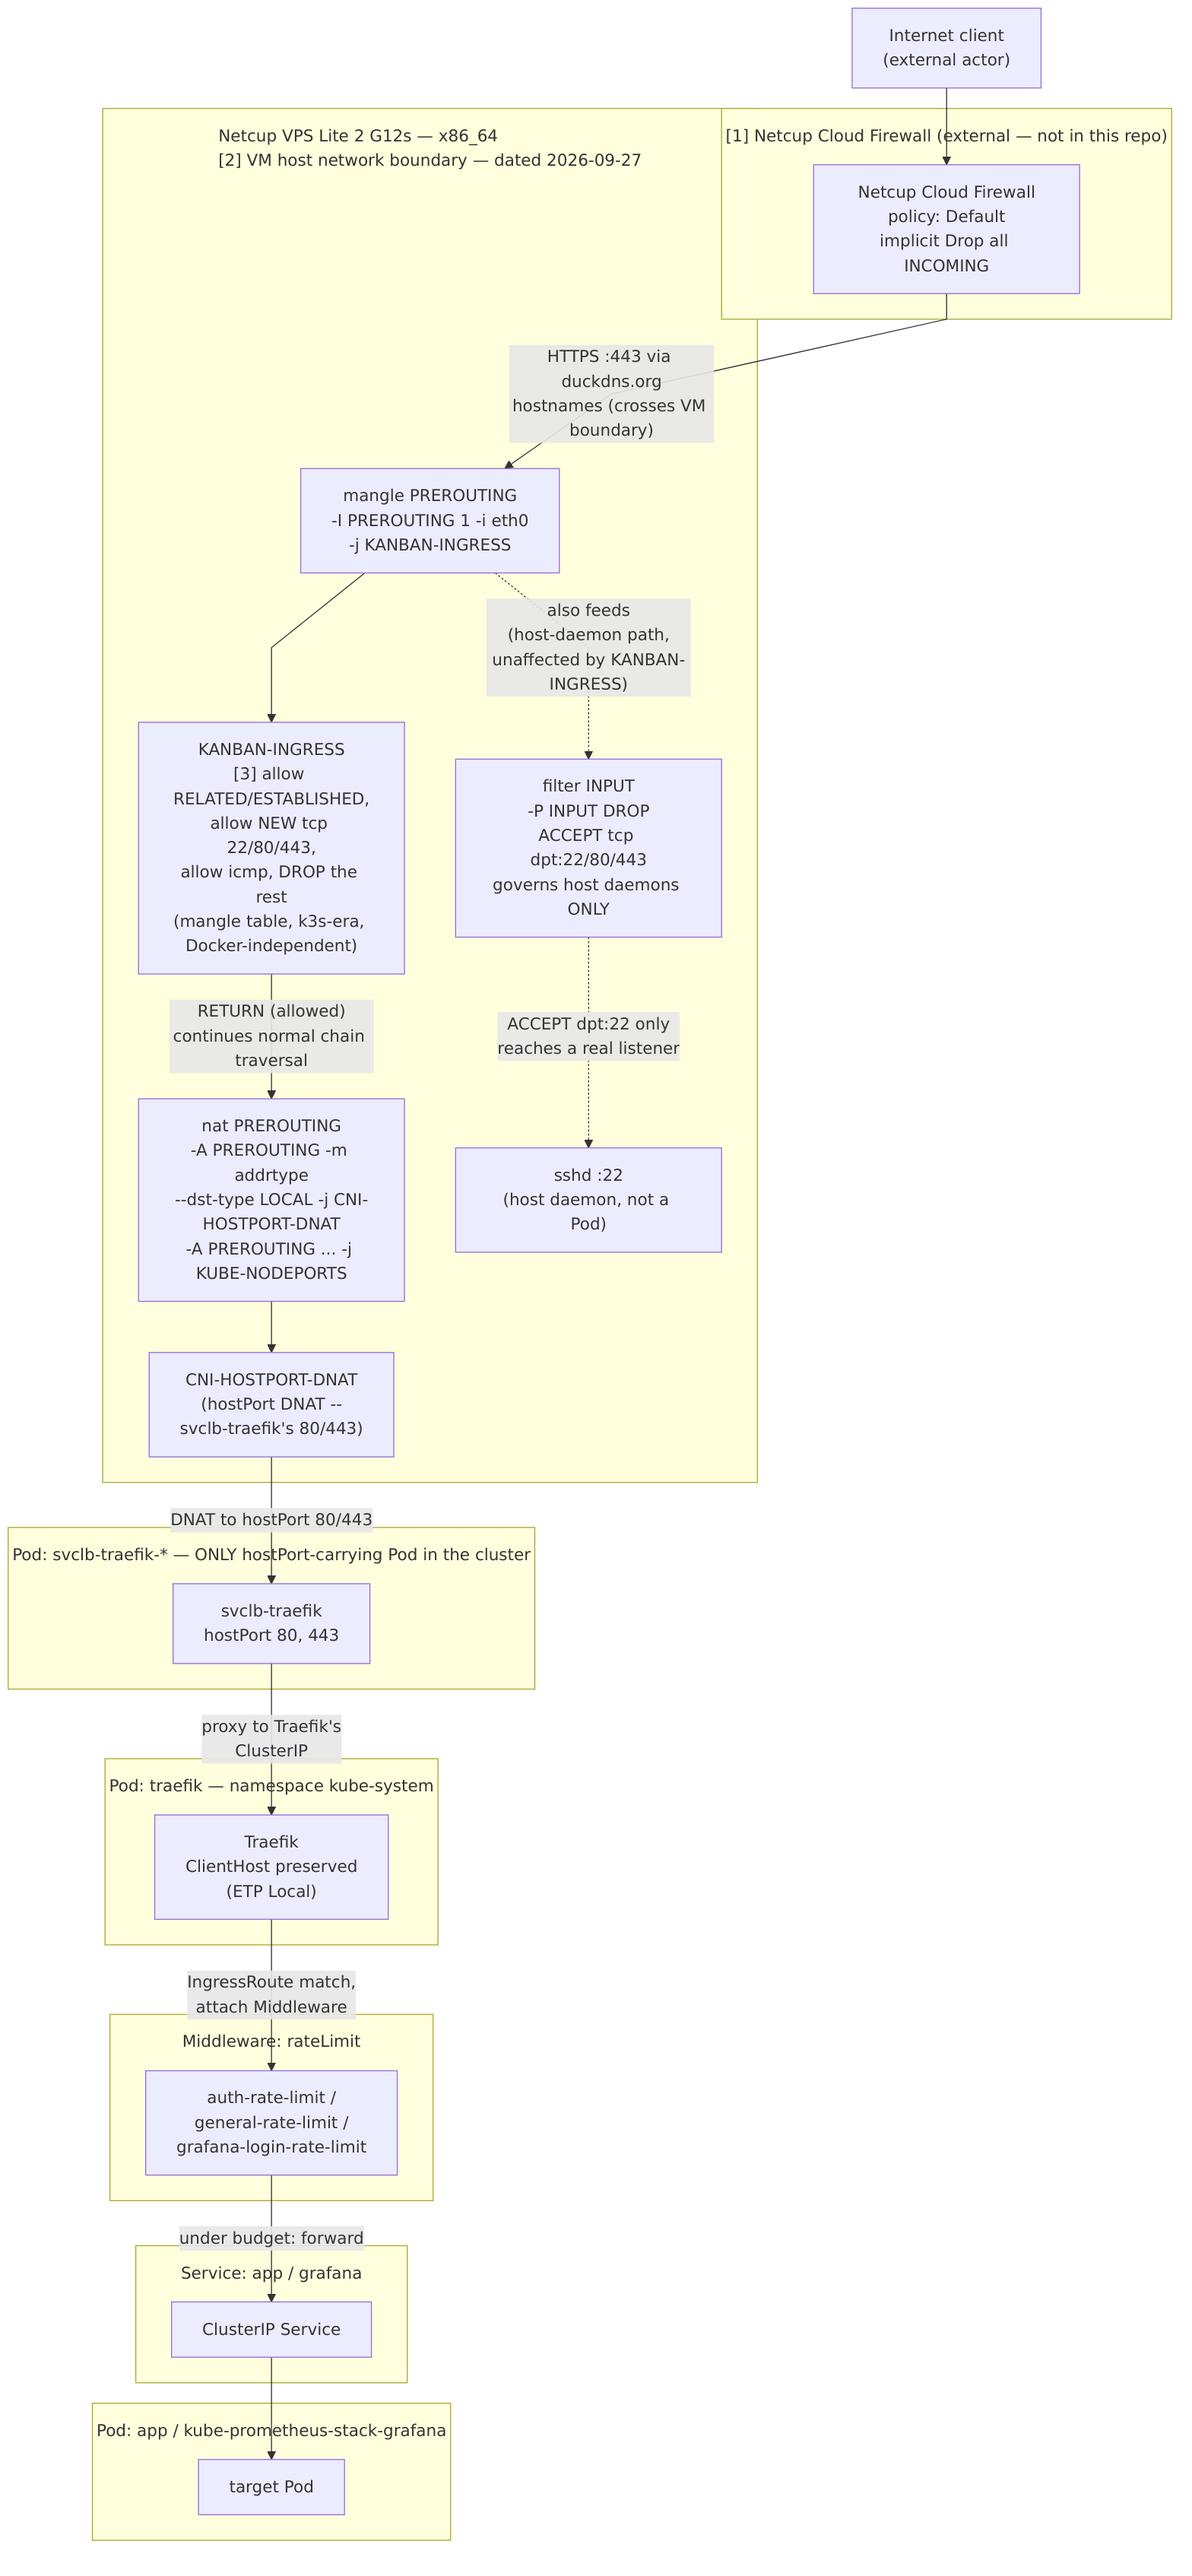
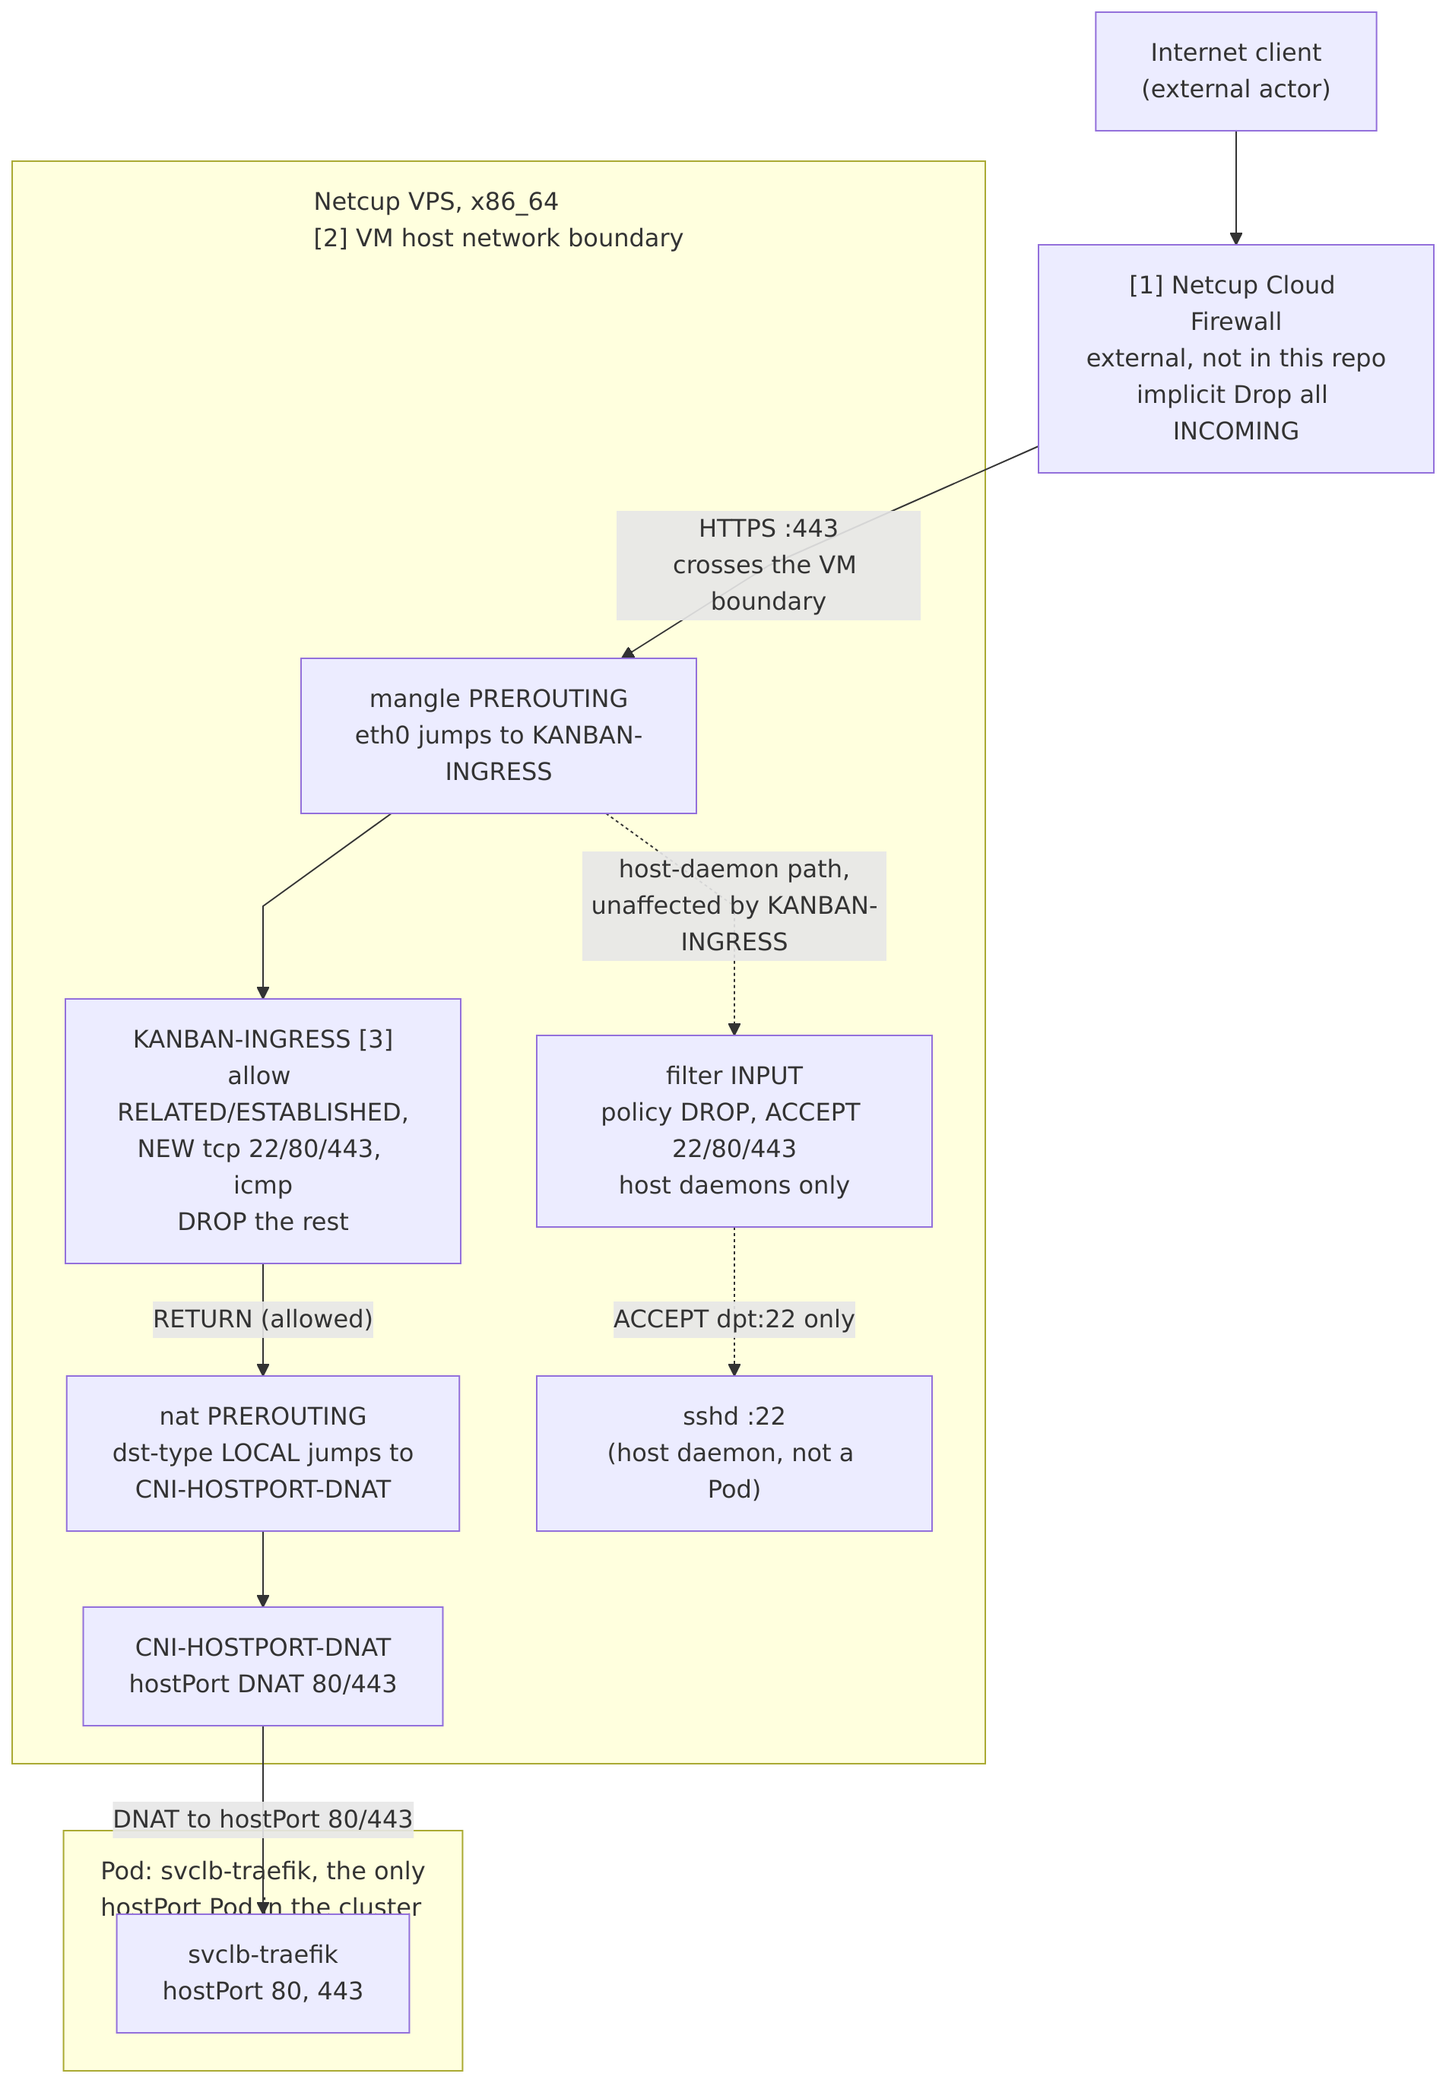
docs(quick-261005-sun): split infra diagrams under the legibility limits and embed them

diff --git a/README.md b/README.md
@@ -268,7 +268,7 @@ Full delivery-path detail, including the exact mechanism for the image-tag bump 
 independent per-environment reconciliation (D-16), is in
 [docs/INFRA_ARCHITECTURE.md](docs/INFRA_ARCHITECTURE.md); the same path is drawn as a sequence
 diagram at
-[docs/diagrams/scenarios/push-to-deploy.mmd](docs/diagrams/scenarios/push-to-deploy.mmd).
+[docs/diagrams/scenarios/push-to-image.mmd](docs/diagrams/scenarios/push-to-image.mmd).
 
 ## Quality & security gates
 
@@ -310,12 +310,16 @@ or [docs/INFRA_ARCHITECTURE.md](docs/INFRA_ARCHITECTURE.md):
 | View     | Diagram                                                                         | Answers                                                                                             |
 | -------- | ------------------------------------------------------------------------------- | --------------------------------------------------------------------------------------------------- |
 | Physical | [`physical/production-host`](docs/diagrams/physical/production-host.mmd)        | What runs where, on what hardware (embedded above)                                                  |
+| Physical | [`physical/delivery-nodes`](docs/diagrams/physical/delivery-nodes.mmd) | Which nodes the delivery path touches |
+| Physical | [`physical/monitoring-nodes`](docs/diagrams/physical/monitoring-nodes.mmd) | What the monitoring namespace scrapes and queries |
 | Process  | [`process/activity-pipeline`](docs/diagrams/process/activity-pipeline.mmd)      | The path of a mutation through the activity-log pipeline, thread by thread                          |
 | Scenario | [`scenarios/signin`](docs/diagrams/scenarios/signin.mmd)                        | What happens between a `POST` of credentials and a session cookie landing in Postgres               |
 | Scenario | [`scenarios/signup`](docs/diagrams/scenarios/signup.mmd)                        | Signup, its auto-authentication and the rollback when that authentication fails                     |
 | Scenario | [`scenarios/error-status-split`](docs/diagrams/scenarios/error-status-split.mmd) | Which layer rejects a request for each of 401/403/400/409, and whether it ever reaches a controller |
-| Scenario | [`scenarios/push-to-deploy`](docs/diagrams/scenarios/push-to-deploy.mmd)        | How a push to `main` becomes a running deploy, job by job                                           |
+| Scenario | [`scenarios/push-to-image`](docs/diagrams/scenarios/push-to-image.mmd)        | How a push to `main` becomes a running deploy, job by job                                           |
 | Scenario | [`scenarios/inbound-packet-path`](docs/diagrams/scenarios/inbound-packet-path.mmd) | The path of one inbound packet through the VM's network layers                                   |
+| Scenario | [`scenarios/ingress-to-pod`](docs/diagrams/scenarios/ingress-to-pod.mmd) | From the hostPort pod through Traefik and rate limiting to the target pod |
+| Scenario | [`scenarios/image-to-rollout`](docs/diagrams/scenarios/image-to-rollout.mmd) | How an image tag bump becomes a rolled-out pod, Flux side |
 
 ## Project status
 

diff --git a/docs/INFRA_ARCHITECTURE.md b/docs/INFRA_ARCHITECTURE.md
@@ -38,8 +38,15 @@ architecture — the discipline this project adopted specifically because a plai
 what" diagram would not have surfaced the CI pipeline building an x86_64-only image for an ARM64
 deploy target (see `DIAGRAM_CONVENTIONS.md`'s own note on this).
 
-![Flowchart: physical/deployment view of the production topology](diagrams/physical/production-host.png)
+<img src="diagrams/physical/production-host.png" width="1098" alt="Flowchart: physical view of the production host, edge to data">
+
+<img src="diagrams/physical/monitoring-nodes.png" width="635" alt="Flowchart: monitoring nodes and what they scrape">
+<sub>[diagram source](diagrams/physical/monitoring-nodes.mmd)</sub>
+
 <sub>[diagram source](diagrams/physical/production-host.mmd)</sub>
+
+<img src="diagrams/physical/delivery-nodes.png" width="808" alt="Flowchart: nodes of the delivery path">
+<sub>[diagram source](diagrams/physical/delivery-nodes.mmd)</sub>
 
 **Externally reachable vs. internal-only:** `svclb-traefik-*` is the ONLY Pod in the cluster
 carrying a `hostPort` (80, 443) — confirmed live via `k3s kubectl get pods -A -o json` filtered for
@@ -127,8 +134,11 @@ pull-based GitOps (D-14)** — this workflow ends at image push. There is no `de
 image-automation controllers and `kustomize-controller` own the rest of the path, entirely inside
 the cluster.
 
-![Sequence diagram: delivery path from push to main to a running deploy](diagrams/scenarios/push-to-deploy.png)
-<sub>[diagram source](diagrams/scenarios/push-to-deploy.mmd)</sub>
+<img src="diagrams/scenarios/push-to-image.png" width="932" alt="Sequence diagram: CI half of the delivery path, from push to main to image push and migration check">
+<sub>[diagram source](diagrams/scenarios/push-to-image.mmd)</sub>
+
+<img src="diagrams/scenarios/image-to-rollout.png" width="1074" alt="Sequence diagram: image tag bump to a rolled-out pod">
+<sub>[diagram source](diagrams/scenarios/image-to-rollout.mmd)</sub>
 
 **Externally reachable vs. internal-only (delivery path):** the GitHub Actions runner reaches
 Docker Hub over the public internet to push images, and nothing else in the delivery path touches
@@ -189,7 +199,11 @@ Compose-era `DOCKER-USER` chain this section used to describe governs nothing on
 all (k3s's NodePort/hostPort DNAT never traverses it); `KANBAN-INGRESS` (Plan 13-08) is its
 Docker-independent replacement.
 
-![Flowchart: inbound packet path through the VM's network layers](diagrams/scenarios/inbound-packet-path.png)
+<img src="diagrams/scenarios/inbound-packet-path.png" width="951" alt="Flowchart: inbound packet path through the VM's netfilter chains">
+
+<img src="diagrams/scenarios/ingress-to-pod.png" width="344" alt="Flowchart: from the hostPort pod through Traefik to the target pod">
+<sub>[diagram source](diagrams/scenarios/ingress-to-pod.mmd)</sub>
+
 <sub>[diagram source](diagrams/scenarios/inbound-packet-path.mmd)</sub>
 
 **Reproduce this yourself on the VM** with the command that proves the ruleset:

diff --git a/docs/learning/10-infrastructure-and-deployment.md b/docs/learning/10-infrastructure-and-deployment.md
@@ -999,7 +999,7 @@ with [`scripts/render-diagrams.sh`](../../scripts/render-diagrams.sh).
 | View | Source | Rendered |
 |------|--------|----------|
 | Physical / Deployment | [physical/production-host.mmd](../diagrams/physical/production-host.mmd) | [PNG](../diagrams/physical/production-host.png) |
-| Scenario: delivery path | [scenarios/push-to-deploy.mmd](../diagrams/scenarios/push-to-deploy.mmd) | [PNG](../diagrams/scenarios/push-to-deploy.png) |
+| Scenario: delivery path | [scenarios/push-to-image.mmd](../diagrams/scenarios/push-to-image.mmd) | [PNG](../diagrams/scenarios/push-to-image.png) |
 | Scenario: inbound packet path | [scenarios/inbound-packet-path.mmd](../diagrams/scenarios/inbound-packet-path.mmd) | [PNG](../diagrams/scenarios/inbound-packet-path.png) |
 
 The physical diagram numbers its trust boundaries `[1]` to `[7]`. `[1]` is the Netcup Cloud
@@ -1035,7 +1035,7 @@ path.
       network", and the physical diagram labels the `app → postgres` edge `[5] kanban-db`. In
       `docker-compose.prod.yml` the production `app` has no `networks:` key, so it is only on the
       production default network. Only `app-nonprod` uses `kanban-db`.
-    - `INFRA_ARCHITECTURE.md` and `scenarios/push-to-deploy.mmd` say "push to `master`".
+    - `INFRA_ARCHITECTURE.md` and `scenarios/push-to-image.mmd` say "push to `master`".
       `deploy.yml` and `invariant-checks.yml` trigger on `main` (commit `cc77500` renamed the
       trigger). The delivery diagram also shows only two SCP files; the job copies seven.
     - The production `app` comment says the app "falls back to application.properties' own

diff --git a/docs/DIAGRAM_CONVENTIONS.md b/docs/DIAGRAM_CONVENTIONS.md
@@ -69,7 +69,7 @@ Current inventory:
 | Scenarios | `scenarios/signin` | What happens between a `POST` of credentials and a session cookie landing in Postgres? | `ARCHITECTURE.md`, `AUTH_FLOWS.md` |
 | Scenarios | `scenarios/signup` | What do signup, its auto-authentication and its rollback look like to a client? | `AUTH_FLOWS.md` |
 | Scenarios | `scenarios/error-status-split` | Which layer answers each of 401/403/400/409, and does the request reach application code? | `ARCHITECTURE.md` |
-| Scenarios | `scenarios/push-to-deploy` | How does a push to `main` become a running deploy? | `INFRA_ARCHITECTURE.md` |
+| Scenarios | `scenarios/push-to-image` | How does a push to `main` become a running deploy? | `INFRA_ARCHITECTURE.md` |
 | Scenarios | `scenarios/inbound-packet-path` | Which network layers does one inbound packet cross on the VM? | `INFRA_ARCHITECTURE.md` |
 
 `README.md` lists the same seven in its Diagrams table, and embeds an inline copy of the physical
